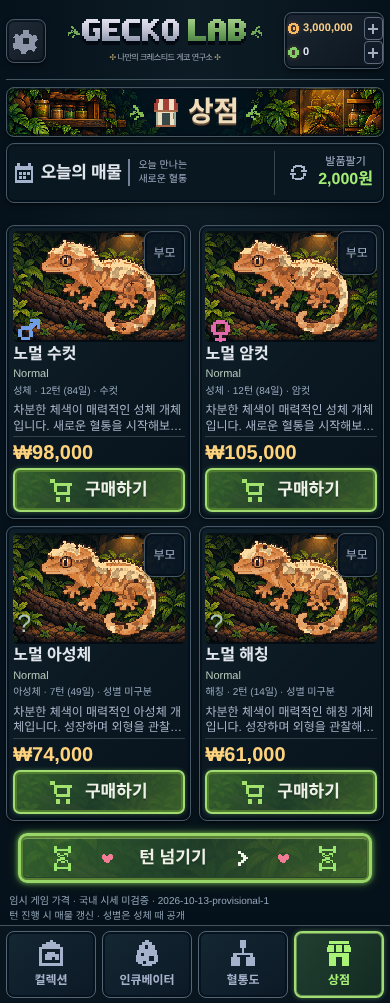
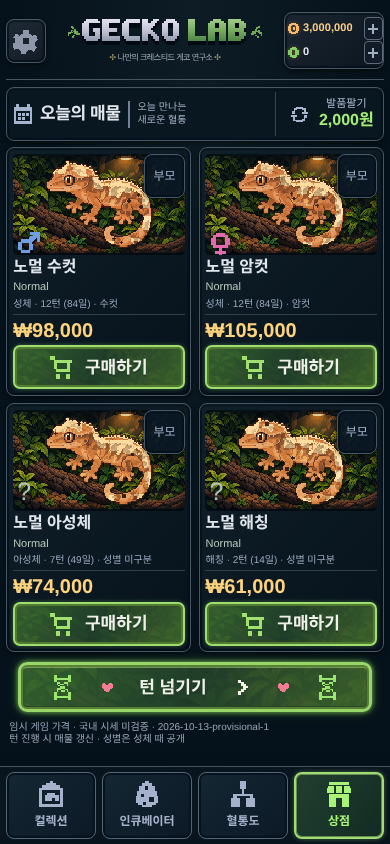
fix: fit shop offers and end-turn controls in mobile viewport

diff --git a/src/app/reference-shop.css b/src/app/reference-shop.css
@@ -1,15 +1,15 @@
 /* Independent live UI elements follow the 864px shop reference. */
-.hc-shell.shop-shell{--shop-x:min(1px,calc(100vw / 864));--home-x:var(--shop-x);--home-y:var(--shop-x);--shop-safe-bottom:env(safe-area-inset-bottom,0px);max-width:864px;min-height:100svh;padding:max(12px,env(safe-area-inset-top)) max(calc(14 * var(--shop-x)),env(safe-area-inset-right)) calc(140 * var(--shop-x) + var(--shop-safe-bottom)) max(calc(14 * var(--shop-x)),env(safe-area-inset-left));background:radial-gradient(ellipse at 50% 0,#1c313955,transparent 65%),#06121b;color:#e1e6ec}
+.hc-shell.shop-shell{--shop-x:min(1px,calc(100vw / 864));--home-x:var(--shop-x);--home-y:var(--shop-x);--shop-safe-top:env(safe-area-inset-top,0px);--shop-safe-bottom:env(safe-area-inset-bottom,0px);max-width:864px;min-height:100svh;padding:max(12px,var(--shop-safe-top)) max(calc(14 * var(--shop-x)),env(safe-area-inset-right)) calc(140 * var(--shop-x) + var(--shop-safe-bottom)) max(calc(14 * var(--shop-x)),env(safe-area-inset-left));background:radial-gradient(ellipse at 50% 0,#1c313955,transparent 65%),#06121b;color:#e1e6ec}
 .shop-shell .shop-metal,.shop-shell .home-frame{border:1px solid #465765;border-radius:8px;background-color:#091721;box-shadow:inset 0 0 0 2px #030d17b0,inset 0 1px #b0c3d52b,0 2px 4px #0008}
 .shop-shell .home-header{grid-template-columns:calc(82 * var(--shop-x)) minmax(0,1fr) 26%;gap:calc(19 * var(--shop-x));min-height:calc(128 * var(--shop-x));margin:0 0 7px;padding:0 0 10px;border-bottom:1px solid #455762}
 .shop-shell .home-settings{width:100%;height:calc(83 * var(--shop-x));min-height:44px;margin:0}.shop-shell .home-settings svg{width:calc(49 * var(--shop-x));height:calc(49 * var(--shop-x));min-width:26px;min-height:26px}
 .shop-shell .home-brand img{width:calc(367 * var(--shop-x));max-width:calc(100% - 27px)}.shop-shell .home-brand>div{gap:2px}.shop-shell .home-brand svg{width:calc(27 * var(--shop-x));min-width:11px}.shop-shell .home-brand small{margin-top:7px;font-size:clamp(8px,calc(18 * var(--shop-x)),18px);font-weight:500}
 .shop-shell .home-resources{padding:calc(8 * var(--shop-x))}.shop-shell .home-resources>div{grid-template-columns:calc(28 * var(--shop-x)) minmax(0,1fr) calc(34 * var(--shop-x));min-height:24px;height:calc(47 * var(--shop-x))}.shop-shell .home-resources>div>svg{width:calc(25 * var(--shop-x));height:calc(25 * var(--shop-x))}.shop-shell .home-resources b{font-size:clamp(11px,calc(24 * var(--shop-x)),24px)}.shop-shell .home-resources button{width:calc(34 * var(--shop-x));height:calc(37 * var(--shop-x));min-width:19px;min-height:23px}
-.shop-reference{display:flex;flex-direction:column;gap:calc(13 * var(--shop-x))}.shop-banner{display:flex;align-items:center;justify-content:center;gap:calc(15 * var(--shop-x));height:calc(111 * var(--shop-x));min-height:49px;background:linear-gradient(90deg,#07121a10,#06121a70,#07121a10),url('/ui/shop-banner.png') center / cover;image-rendering:pixelated;overflow:hidden}.shop-shell .shop-banner h1{font-size:clamp(28px,calc(61 * var(--shop-x)),61px);font-weight:900;color:#efddbb;text-shadow:0 2px #654d35,2px 3px #09121a;line-height:1}.shop-banner svg{width:calc(63 * var(--shop-x));height:calc(68 * var(--shop-x));min-width:30px}.shop-banner svg:first-child,.shop-banner svg:last-child{width:calc(32 * var(--shop-x));color:#83b953;min-width:15px}.shop-banner svg:last-child{transform:scaleX(-1)}
-.shop-today{display:flex;align-items:center;padding:calc(15 * var(--shop-x));min-height:calc(94 * var(--shop-x));gap:calc(20 * var(--shop-x))}.shop-today>div{display:flex;align-items:center;gap:calc(15 * var(--shop-x));flex-shrink:0}.shop-today>div>svg{color:#a6b3cf;width:calc(44 * var(--shop-x));height:calc(44 * var(--shop-x));min-width:20px}.shop-shell .shop-today h2{font-size:clamp(17px,calc(36 * var(--shop-x)),36px);margin:0;font-weight:800;letter-spacing:-.4px;white-space:nowrap}.shop-today>p{color:#9faac0;margin:0;border-left:2px solid #748199;padding-left:calc(24 * var(--shop-x));font-size:clamp(10px,calc(21 * var(--shop-x)),21px);line-height:1.35;flex:1}.shop-shell .shop-refresh{display:flex;align-items:center;gap:calc(18 * var(--shop-x));justify-content:center;margin-left:auto;padding:0 3px 0 calc(24 * var(--shop-x));border:0;border-left:1px solid #374550;color:#aab4cd;background:transparent;min-height:44px;flex-shrink:0}.shop-refresh svg{width:calc(38 * var(--shop-x));height:calc(38 * var(--shop-x));min-width:23px}.shop-refresh span{display:flex;flex-direction:column;font-size:clamp(11px,calc(23 * var(--shop-x)),23px);line-height:1.3}.shop-refresh strong{color:#a3ed75;font-size:clamp(16px,calc(31 * var(--shop-x)),31px)}.shop-funds{font-size:12px;color:#f5cb88;margin:0 4px}
-.shop-shell .shop-offer-grid{display:grid;grid-template-columns:repeat(2,minmax(0,1fr));gap:calc(16 * var(--shop-x))}.shop-offer{display:flex;flex-direction:column;padding:calc(13 * var(--shop-x));min-width:0;gap:0;background:linear-gradient(135deg,#10212be0,#07121b)}.shop-offer-art{position:relative;width:100%;aspect-ratio:365 / 203;overflow:hidden;border-radius:5px;background:linear-gradient(#05150a20,#00110910),url('/ui/home-terrarium.png') center 64% / cover;image-rendering:pixelated}.shop-offer-art canvas{display:block;position:absolute;width:auto!important;height:116%!important;max-width:none;left:50%;top:50%;transform:translate(-50%,-50%);image-rendering:pixelated;filter:drop-shadow(1px 3px 1px #050d0bab)}.shop-shell .shop-parents{position:absolute;right:0;top:0;background:#0a1725eb;padding:2px 8px;min-height:44px;font-size:clamp(12px,calc(24 * var(--shop-x)),24px);color:#a6b4cc;z-index:1}.shop-parents::after{content:'';position:absolute;inset:0 -2px -8px}.shop-sex{position:absolute;bottom:0;left:4px;color:#adc4b8;font-size:25px}.shop-sex svg{width:calc(42 * var(--shop-x));height:calc(42 * var(--shop-x));min-width:23px;min-height:23px}.shop-sex.female{color:#e269ac}.shop-sex.male{color:#6f9ee6}.shop-sold{position:absolute;inset:0;display:grid;place-items:center;color:#a6ee7c;background:#05141385;font-size:18px;font-weight:700}
-.shop-shell .shop-offer h3{margin:calc(6 * var(--shop-x)) 0 0;font-size:clamp(16px,calc(31 * var(--shop-x)),31px);line-height:1.3;font-weight:750;overflow:hidden;white-space:nowrap;text-overflow:ellipsis}.shop-morph{font-size:clamp(11px,calc(21 * var(--shop-x)),21px);color:#b6c9ba;line-height:1.3;margin:2px 0 0;overflow:hidden;white-space:nowrap;text-overflow:ellipsis}.shop-age{font-size:clamp(10px,calc(18 * var(--shop-x)),18px);color:#97a8bc;margin:3px 0;line-height:1.3}.shop-description{display:-webkit-box;-webkit-line-clamp:2;-webkit-box-orient:vertical;overflow:hidden;margin:calc(5 * var(--shop-x)) 0;font-size:clamp(12px,calc(22 * var(--shop-x)),22px);line-height:1.3;color:#a8b3c7;min-height:2.6em}.shop-price{display:block;color:#ffd37c;font-size:clamp(20px,calc(36 * var(--shop-x)),36px);font-weight:750;padding-top:4px;margin-top:auto;border-top:1px solid #31414c;line-height:1.2;padding-bottom:calc(6 * var(--shop-x));white-space:nowrap}
-.shop-shell .shop-buy,.shop-shell .shop-turn-cta{display:flex;align-items:center;justify-content:center;gap:calc(24 * var(--shop-x));border:2px solid #a1dc71;border-radius:7px;background:linear-gradient(120deg,#376a30de,#203f2bea,#416a2edc),url('/ui/home-terrarium.png') center / cover;box-shadow:inset 0 0 0 2px #517c30,inset 0 2px #ccffae60,0 0 4px #a3ef7555;color:#eff1e8;min-height:44px;padding:6px;font-weight:750;font-size:clamp(17px,calc(31 * var(--shop-x)),31px);text-shadow:0 2px #1e3a24}.shop-buy svg{color:#a2e16d;width:calc(41 * var(--shop-x));height:calc(41 * var(--shop-x));min-width:24px;min-height:24px}.shop-unavailable{font-size:10px;margin-top:3px;color:#d2aa83}.shop-shell .shop-buy:disabled{opacity:.6}.shop-cta-wrap{display:flex;justify-content:center;padding:6px 0}.shop-shell .shop-turn-cta{border:3px solid #98d669;border-radius:9px;box-shadow:inset 0 0 0 2px #597f33,inset 0 3px #c5f59570,inset 0 -3px #26452b,0 0 4px 1px #a6f56b78,0 0 12px #6ec94055;width:94%;justify-content:space-evenly;gap:3px;min-height:50px}.shop-turn-cta svg{width:25px;height:30px;color:#9ae66e}.shop-turn-cta svg:nth-child(2),.shop-turn-cta svg:nth-child(5){width:12px;height:12px;color:#f17c93}.shop-turn-cta svg:nth-child(4){width:18px;height:22px;color:#f3f3e9}.shop-market-note{margin:0 3px 15px;color:#93a5b7;font-size:10px;line-height:1.5}
+.shop-reference{display:flex;flex-direction:column;gap:6px}
+.shop-today{display:flex;align-items:center;padding:calc(15 * var(--shop-x));min-height:calc(94 * var(--shop-x));gap:calc(20 * var(--shop-x))}.shop-today>div{display:flex;align-items:center;gap:calc(15 * var(--shop-x));flex-shrink:0}.shop-today>div>svg{color:#a6b3cf;width:calc(44 * var(--shop-x));height:calc(44 * var(--shop-x));min-width:20px}.shop-shell .shop-today h2{font-size:clamp(17px,calc(36 * var(--shop-x)),36px);margin:0;font-weight:800;letter-spacing:-.4px;white-space:nowrap}.shop-today>p{color:#9faac0;margin:0;border-left:2px solid #748199;padding-left:calc(24 * var(--shop-x));font-size:clamp(10px,calc(21 * var(--shop-x)),21px);line-height:1.35;flex:1}.shop-shell .shop-refresh{display:flex;align-items:center;gap:calc(18 * var(--shop-x));justify-content:center;margin-left:auto;padding:0 3px 0 calc(24 * var(--shop-x));border:0;border-left:1px solid #374550;color:#aab4cd;background:transparent;min-height:44px;flex-shrink:0}.shop-refresh svg{width:calc(38 * var(--shop-x));height:calc(38 * var(--shop-x));min-width:23px}.shop-refresh span{display:flex;flex-direction:column;font-size:clamp(11px,calc(23 * var(--shop-x)),23px);line-height:1.3}.shop-refresh strong{color:#a3ed75;font-size:clamp(16px,calc(31 * var(--shop-x)),31px)}
+.shop-shell .shop-offer-grid{margin-top:0;display:grid;grid-template-columns:repeat(2,minmax(0,1fr));gap:calc(16 * var(--shop-x))}.shop-offer{display:flex;flex-direction:column;padding:calc(13 * var(--shop-x));min-width:0;gap:0;background:linear-gradient(135deg,#10212be0,#07121b)}.shop-offer-art{position:relative;width:100%;aspect-ratio:365 / 203;overflow:hidden;border-radius:5px;background:linear-gradient(#05150a20,#00110910),url('/ui/home-terrarium.png') center 64% / cover;image-rendering:pixelated}.shop-offer-art canvas{display:block;position:absolute;width:auto!important;height:116%!important;max-width:none;left:50%;top:50%;transform:translate(-50%,-50%);image-rendering:pixelated;filter:drop-shadow(1px 3px 1px #050d0bab)}.shop-shell .shop-parents{position:absolute;right:0;top:0;background:#0a1725eb;padding:2px 8px;min-height:44px;font-size:clamp(12px,calc(24 * var(--shop-x)),24px);color:#a6b4cc;z-index:1}.shop-parents::after{content:'';position:absolute;inset:0 -2px -8px}.shop-sex{position:absolute;bottom:0;left:4px;color:#adc4b8;font-size:25px}.shop-sex svg{width:calc(42 * var(--shop-x));height:calc(42 * var(--shop-x));min-width:23px;min-height:23px}.shop-sex.female{color:#e269ac}.shop-sex.male{color:#6f9ee6}.shop-sold{position:absolute;inset:0;display:grid;place-items:center;color:#a6ee7c;background:#05141385;font-size:18px;font-weight:700}
+.shop-shell .shop-offer h3{margin:calc(6 * var(--shop-x)) 0 0;font-size:clamp(16px,calc(31 * var(--shop-x)),31px);line-height:1.3;font-weight:750;overflow:hidden;white-space:nowrap;text-overflow:ellipsis}.shop-morph{font-size:clamp(11px,calc(21 * var(--shop-x)),21px);color:#b6c9ba;line-height:1.3;margin:2px 0 0;overflow:hidden;white-space:nowrap;text-overflow:ellipsis}.shop-age{font-size:clamp(10px,calc(18 * var(--shop-x)),18px);color:#97a8bc;margin:3px 0;line-height:1.3}.shop-price{display:block;color:#ffd37c;font-size:clamp(20px,calc(36 * var(--shop-x)),36px);font-weight:750;padding-top:4px;margin-top:auto;border-top:1px solid #31414c;line-height:1.2;padding-bottom:calc(6 * var(--shop-x));white-space:nowrap}
+.shop-shell .shop-buy,.shop-shell .shop-turn-cta{display:flex;align-items:center;justify-content:center;gap:calc(24 * var(--shop-x));border:2px solid #a1dc71;border-radius:7px;background:linear-gradient(120deg,#376a30de,#203f2bea,#416a2edc),url('/ui/home-terrarium.png') center / cover;box-shadow:inset 0 0 0 2px #517c30,inset 0 2px #ccffae60,0 0 4px #a3ef7555;color:#eff1e8;min-height:44px;padding:6px;font-weight:750;font-size:clamp(17px,calc(31 * var(--shop-x)),31px);text-shadow:0 2px #1e3a24}.shop-buy svg{color:#a2e16d;width:calc(41 * var(--shop-x));height:calc(41 * var(--shop-x));min-width:24px;min-height:24px}.shop-shell .shop-buy:disabled{opacity:.6}.shop-cta-wrap{display:flex;justify-content:center;padding:4px 0}.shop-shell .shop-turn-cta{border:3px solid #98d669;border-radius:9px;box-shadow:inset 0 0 0 2px #597f33,inset 0 3px #c5f59570,inset 0 -3px #26452b,0 0 4px 1px #a6f56b78,0 0 12px #6ec94055;width:94%;justify-content:space-evenly;gap:3px;min-height:50px}.shop-turn-cta svg{width:25px;height:30px;color:#9ae66e}.shop-turn-cta svg:nth-child(2),.shop-turn-cta svg:nth-child(5){width:12px;height:12px;color:#f17c93}.shop-turn-cta svg:nth-child(4){width:18px;height:22px;color:#f3f3e9}.shop-market-note{margin:0 3px;color:#93a5b7;font-size:10px;line-height:1.2}
 .shop-shell .home-nav{grid-template-columns:repeat(4,minmax(0,1fr));max-width:864px;width:100%;bottom:0;left:50%;transform:translateX(-50%);gap:calc(15 * var(--shop-x));border:0;border-top:1px solid #46535e;border-radius:0;padding:calc(10 * var(--shop-x)) calc(14 * var(--shop-x)) max(calc(12 * var(--shop-x)),var(--shop-safe-bottom));background:#08151ff7;box-shadow:0 -3px 8px #03101970}.shop-shell .home-nav button{display:flex;flex-direction:column;align-items:center;justify-content:center;gap:5px;min-width:0;min-height:calc(109 * var(--shop-x));padding:7px 1px;border:1px solid #536574;border-radius:8px;color:#a6b1cb;background:linear-gradient(140deg,#142733,#0b1925);box-shadow:inset 0 0 0 2px #06131f;font-size:clamp(12px,calc(21 * var(--shop-x)),21px);font-weight:650}.shop-shell .home-nav button svg{width:calc(47 * var(--shop-x));height:calc(47 * var(--shop-x));min-width:26px;min-height:26px}.shop-shell .home-nav button[aria-pressed='true']{color:#a8f376;border:2px solid #a1db74;background:linear-gradient(125deg,#213f30,#132b23);box-shadow:inset 0 0 0 1px #668c51,0 0 5px #9cf17560}
 .shop-family-child{display:flex;align-items:center;gap:12px;padding:8px 0}.shop-family-child canvas{width:100px!important;height:100px!important;flex-shrink:0}.shop-family-child p{font-size:12px;margin:5px 0}.shop-family-child small{display:block;font-size:10px;overflow-wrap:anywhere;color:#95a8b3}.shop-family-grid{display:grid;grid-template-columns:repeat(2,minmax(0,1fr));gap:8px}.shop-family-grid article{min-width:0;padding:8px;border:1px solid #3e5966;border-radius:7px;background:#101e28}.shop-family-grid h3{margin:0 0 6px;font-size:16px;color:#ecd7a7}.shop-family-art{aspect-ratio:1;background:url('/ui/home-terrarium.png') center / cover;border-radius:5px}.shop-family-art canvas{width:100%!important;height:auto!important;image-rendering:pixelated}.shop-family-grid strong{font-size:13px;overflow-wrap:anywhere}.shop-family-grid p{font-size:11px;margin:5px 0;color:#afbdcc}
-@media(max-width:430px){.shop-today{gap:7px}.shop-today>p{font-size:10px;padding-left:8px}.shop-shell .shop-refresh{padding-left:12px}.shop-offer-art{aspect-ratio:1.55}.shop-shell .home-header{grid-template-columns:40px minmax(0,1fr) 100px;gap:5px;min-height:63px}.shop-shell .home-brand small{letter-spacing:-.55px}.shop-shell .home-nav button{min-height:57px}.shop-family-child{align-items:flex-start}}
+@media(max-width:430px){.shop-today{gap:7px;padding:4px 6px}.shop-today>p{font-size:10px;padding-left:8px}.shop-shell .shop-refresh{padding-left:12px}.shop-offer-art{aspect-ratio:1.7;max-height:clamp(72px,calc((100svh - 578px - max(12px,var(--shop-safe-top)) - max(16px,var(--shop-safe-bottom))) / 2),132px)}.shop-shell .home-header{grid-template-columns:40px minmax(0,1fr) 100px;gap:5px;min-height:63px}.shop-shell .home-brand small{letter-spacing:-.55px}.shop-shell .home-nav button{min-height:57px}.shop-family-child{align-items:flex-start}}

diff --git a/e2e/shop-reference.spec.ts b/e2e/shop-reference.spec.ts
@@ -22,8 +22,12 @@ test.afterEach(async({page})=>expect(errors.get(page)).toEqual([]));
 test('four actual family offers, private parent popup, confirmed paid reroll, purchase receipt and stable reload at 360/390/430px',async({page},info)=>{
  const mobile=info.project.name.startsWith('mobile');const fixture=winning();await restore(page,fixture.original,mobile);await shop(page,mobile);
  const initial=await saved(page);
- for(const width of [360,390,430]){await page.setViewportSize({width,height:844});await page.evaluate(()=>window.scrollTo(0,0));expect(await page.evaluate(()=>document.documentElement.scrollWidth<=innerWidth)).toBe(true);expect(await page.locator('.shop-offer-grid').evaluate(el=>getComputedStyle(el).gridTemplateColumns.split(' ').length)).toBe(2);for(const c of await page.locator('.shop-offer-art canvas').all())expect(await c.evaluate(el=>{const c=el as HTMLCanvasElement;return !c.getContext('2d')!.imageSmoothingEnabled&&c.getContext('2d')!.getImageData(0,0,c.width,c.height).data.some((v,i)=>i%4===3&&v>0);})).toBe(true);
-  await page.screenshot({path:info.outputPath('shop-'+width+'.png'),scale:'css',fullPage:true});
+ for(const [width,height] of [[360,800],[390,844],[430,844],[360,740]]){await page.setViewportSize({width,height});await page.evaluate(()=>window.scrollTo(0,0));expect(await page.evaluate(()=>document.documentElement.scrollWidth<=innerWidth)).toBe(true);expect(await page.locator('.shop-offer-grid').evaluate(el=>getComputedStyle(el).gridTemplateColumns.split(' ').length)).toBe(2);
+  const cta=await page.locator('.shop-turn-cta').boundingBox(),nav=await page.getByRole('navigation',{name:'게임 탭'}).boundingBox();
+  expect(await page.evaluate(()=>scrollY)).toBe(0);expect(cta!.y+cta!.height).toBeLessThanOrEqual(nav!.y);
+  for(const b of await page.locator('.shop-buy,.shop-parents').all()){const r=await b.boundingBox();expect(r!.height).toBeGreaterThanOrEqual(44);expect(r!.y+r!.height).toBeLessThan(cta!.y);}
+  await expect(page.locator('.shop-banner,.shop-description')).toHaveCount(0);for(const c of await page.locator('.shop-offer-art canvas').all())expect(await c.evaluate(el=>{const c=el as HTMLCanvasElement;return !c.getContext('2d')!.imageSmoothingEnabled&&c.getContext('2d')!.getImageData(0,0,c.width,c.height).data.some((v,i)=>i%4===3&&v>0);})).toBe(true);
+  await page.screenshot({path:info.outputPath('shop-'+width+'x'+height+'.png'),scale:'css'});
  }
  await page.setViewportSize({width:390,height:844});const first=Object.values(initial.shop.offers)[0],card=page.getByTestId('shop-offer-'+first.id);
  await expect(card).toContainText(first.individual.name);await expect(card).toContainText('₩'+first.askPrice.toLocaleString('ko-KR'));expect(first.askPrice).toBe(valueGecko(first.individual).ask);
@@ -35,7 +39,10 @@ test('four actual family offers, private parent popup, confirmed paid reroll, pu
  await touch(page.getByRole('button',{name:'발품팔기 2,000원',exact:true}),mobile);await touch(page.getByRole('button',{name:'취소',exact:true}),mobile);expect(await saved(page)).toEqual(purchased);
  await touch(page.getByRole('button',{name:'발품팔기 2,000원',exact:true}),mobile);await page.getByRole('button',{name:'2,000원 사용하고 매물 갱신',exact:true}).evaluate(el=>{(el as HTMLButtonElement).click();(el as HTMLButtonElement).click();});await expect(page.getByRole('dialog')).toHaveCount(0);const refreshed=await saved(page);expect(refreshed.money).toBe(purchased.money-2000);expect(refreshed.turn).toBe(0);expect(refreshed.shop.batch).toBe(purchased.shop.batch!+1);expect(refreshed.revision).toBe(purchased.revision+1);expect(Object.keys(refreshed.shop.offers).some(id=>id in purchased.shop.offers)).toBe(false);
  await page.reload();await expect(page.getByTestId('game-day')).toHaveText('0');await shop(page,mobile);expect(await saved(page)).toEqual(refreshed);
- if(mobile){await mkdir('docs/shop-reference',{recursive:true});await restore(page,initial,mobile);await shop(page,mobile);await page.evaluate(()=>window.scrollTo(0,document.documentElement.scrollHeight));const cta=await page.locator('.shop-turn-cta').boundingBox(),nav=await page.getByRole('navigation',{name:'게임 탭'}).boundingBox();expect(cta!.y+cta!.height).toBeLessThanOrEqual(nav!.y);await page.screenshot({path:'docs/shop-reference/after-390.png',scale:'css',fullPage:true});await page.screenshot({path:'docs/shop-reference/lower-390.png',scale:'css'});await touch(page.locator('.shop-parents').first(),mobile);await page.getByRole('dialog').screenshot({path:'docs/shop-reference/parents-390.png',scale:'css'});await writeFile('docs/shop-reference/state.json',JSON.stringify(makeSave(initial),null,2));}
+ if(mobile){await mkdir('docs/shop-reference',{recursive:true});
+  await page.setViewportSize({width:360,height:800});await page.locator('.shop-shell').evaluate(el=>{(el as HTMLElement).style.setProperty('--shop-safe-top','20px');(el as HTMLElement).style.setProperty('--shop-safe-bottom','34px');});await page.evaluate(()=>window.scrollTo(0,0));
+  const safeCta=await page.locator('.shop-turn-cta').boundingBox(),safeNav=await page.getByRole('navigation',{name:'게임 탭'}).boundingBox();expect(safeCta!.y+safeCta!.height).toBeLessThanOrEqual(safeNav!.y);
+  await page.locator('.shop-shell').evaluate(el=>{(el as HTMLElement).style.removeProperty('--shop-safe-top');(el as HTMLElement).style.removeProperty('--shop-safe-bottom');});await page.setViewportSize({width:390,height:844});await restore(page,initial,mobile);await shop(page,mobile);await page.evaluate(()=>window.scrollTo(0,0));const cta=await page.locator('.shop-turn-cta').boundingBox(),nav=await page.getByRole('navigation',{name:'게임 탭'}).boundingBox();expect(cta!.y+cta!.height).toBeLessThanOrEqual(nav!.y);await page.screenshot({path:'docs/shop-reference/after-390.png',scale:'css'});await page.screenshot({path:'docs/shop-reference/lower-390.png',scale:'css'});await touch(page.locator('.shop-parents').first(),mobile);await page.getByRole('dialog').screenshot({path:'docs/shop-reference/parents-390.png',scale:'css'});await writeFile('docs/shop-reference/state.json',JSON.stringify(makeSave(initial),null,2));}
 });
 
 test('shop end-turn follows real breeding, incubation, growth, second generation and persistence without double turns or reroll charges',async({page},info)=>{
@@ -44,7 +51,7 @@ test('shop end-turn follows real breeding, incubation, growth, second generation
  await navigateGame(page,'교배',mobile);await page.getByRole('combobox',{name:'수컷 부모',exact:true}).selectOption(fixture.f);await page.getByRole('combobox',{name:'암컷 부모',exact:true}).selectOption(fixture.m);await touch(page.getByRole('button',{name:'교배 일정 시작 · 공간 2칸 예약',exact:true}),mobile);
  const breeding=await saved(page),fixed=Object.values(breeding.matings)[0].lifecycle!.offspring;
  await shop(page,mobile);const money=breeding.money;
- for(let n=1;n<=18;n++){await page.getByRole('button',{name:'턴 넘기기',exact:true}).evaluate(el=>{(el as HTMLButtonElement).click();(el as HTMLButtonElement).click();});await expect(page.getByTestId('game-day')).toHaveText(String(n));await expect(page.locator('.game-tab-content')).toHaveAttribute('aria-busy','false');const g=await saved(page);expect(g.money).toBe(money);expect(g.shop.batch).toBe(breeding.shop.batch!+n);expect(Object.values(g.shop.offers)).toHaveLength(4);if(n===2)expect(Object.values(g.eggs)).toHaveLength(2);if(n===6)for(const o of fixed)expect(g.individuals[o.embryo.id]).toEqual(o.embryo);}
+ for(let n=1;n<=18;n++){await page.getByRole('button',{name:'턴 넘기기',exact:true}).evaluate(el=>{(el as HTMLButtonElement).click();(el as HTMLButtonElement).click();});await expect(page.getByTestId('game-day')).toHaveText(String(n));await expect(page.locator('.game-tab-content')).toHaveAttribute('aria-busy','false');const g=await saved(page);const cta=await page.locator('.shop-turn-cta').boundingBox(),nav=await page.getByRole('navigation',{name:'게임 탭'}).boundingBox();expect(await page.evaluate(()=>scrollY)).toBe(0);if(mobile)expect(cta!.y+cta!.height).toBeLessThanOrEqual(nav!.y);expect(g.money).toBe(money);expect(g.shop.batch).toBe(breeding.shop.batch!+n);expect(Object.values(g.shop.offers)).toHaveLength(4);if(n===2)expect(Object.values(g.eggs)).toHaveLength(2);if(n===6)for(const o of fixed)expect(g.individuals[o.embryo.id]).toEqual(o.embryo);}
  let g=await saved(page);const child=g.individuals[fixed[0].embryo.id];expect(child.stage).toBe('adult');expect(child.generation).toBe(3);await navigateGame(page,'컬렉션',mobile);await touch(page.getByRole('button',{name:child.name+' 상세보기',exact:true}),mobile);await page.getByLabel('개체 이름',{exact:true}).fill('상점 혈통 자손');await touch(page.getByRole('button',{name:'이름 저장',exact:true}),mobile);await page.keyboard.press('Escape');await shop(page,mobile);
  const partner=Object.values(g.shop.offers).find(o=>o.individual.stage==='adult'&&o.individual.sex!==child.sex&&!advancedSafety(child,o.individual).length)!;await touch(page.getByTestId('shop-offer-'+partner.id).getByRole('button',{name:/ 구매$/}),mobile);
  await navigateGame(page,'교배',mobile);await page.getByRole('combobox',{name:'수컷 부모',exact:true}).selectOption(child.sex==='male'?child.id:partner.id);await page.getByRole('combobox',{name:'암컷 부모',exact:true}).selectOption(child.sex==='female'?child.id:partner.id);await touch(page.getByRole('button',{name:'교배 일정 시작 · 공간 2칸 예약',exact:true}),mobile);await shop(page,mobile);
@@ -53,7 +60,8 @@ test('shop end-turn follows real breeding, incubation, growth, second generation
 });
 
 test('insufficient funds disable reroll and purchases; missing legacy parent records remain honestly unknown',async({page},info)=>{
- const mobile=info.project.name.startsWith('mobile');const poor=newGame('poor-shop',DATE,{initialMoney:1999});await restore(page,poor,mobile);await shop(page,mobile);await expect(page.getByRole('button',{name:'발품팔기 2,000원',exact:true})).toBeDisabled();for(const b of await page.locator('.shop-buy').all())await expect(b).toBeDisabled();expect(await saved(page)).toEqual(poor);
+ const mobile=info.project.name.startsWith('mobile');const poor=newGame('poor-shop',DATE,{initialMoney:1999});await restore(page,poor,mobile);await shop(page,mobile);await expect(page.getByRole('button',{name:'발품팔기 2,000원',exact:true})).toBeDisabled();for(const b of await page.locator('.shop-buy').all()){await expect(b).toBeDisabled();await expect(b).toContainText('자금 부족');}expect(await saved(page)).toEqual(poor);
+ if(mobile){const cta=await page.locator('.shop-turn-cta').boundingBox(),nav=await page.getByRole('navigation',{name:'게임 탭'}).boundingBox();expect(await page.evaluate(()=>scrollY)).toBe(0);expect(cta!.y+cta!.height).toBeLessThanOrEqual(nav!.y);}
  const old=v6Game('unknown-family',DATE),record={save:makeSave(old),writeRevision:10};
  await page.evaluate(async record=>{const db=await new Promise<IDBDatabase>(resolve=>{const r=indexedDB.open('gecko-lab',1);r.onsuccess=()=>resolve(r.result);});await new Promise<void>(resolve=>{const tx=db.transaction('games','readwrite');tx.objectStore('games').put(record,'active');tx.oncomplete=()=>{db.close();resolve();};});},record);
  await page.reload();await expect(page.getByTestId('game-day')).toHaveText('0');await shop(page,mobile);const upgraded=await saved(page);expect(upgraded.saveVersion).toBe(7);

diff --git a/src/components/hardcore/shop.tsx b/src/components/hardcore/shop.tsx
@@ -1,5 +1,5 @@
 "use client";
-import {useState} from 'react';
+import {useEffect,useState} from 'react';
 import {Dialog,Sprite,won,type ViewProps} from './common';
 import {HomeIcon} from './home-icons';
 import {EndTurnButton} from './end-turn';
@@ -15,27 +15,22 @@ export function shopMorph(g:Gecko):string {
  const label={normal:'Normal',lilly:'Lilly White',axanthic:'Axanthic',dalmatian:'Dalmatian',harlequin:'Harlequin',tricolor:'Tricolor Harlequin'}[specimen(g).appearance.patternStyle];
  return morph(g).replace(/^일반형(?: · (?:반점|할리퀸|트라이컬러) 외형)?|^릴리화이트 이형접합체/,label).split(' · ').filter(s=>!s.includes('het')&&!s.includes('유전 정보')).join(' · ');
 }
-function description(g:Gecko):string {
- const t=g.potential,feature=t.spotDensity>=.5?'뚜렷한 반점':t.creamCoverage>.55?'밝은 크림 패턴':t.flankIntensity>.6?'선명한 측면 패턴':t.redIntensity>.65?'따뜻한 붉은 발색':'차분한 체색';
- return `${feature}이 매력적인 ${STAGE_LABELS[g.stage]} 개체입니다. ${g.stage==='adult'?'새로운 혈통을 시작해보세요.':'성장하며 외형을 관찰해보세요.'}`;
-}
-function Storefront(){return <svg viewBox="0 0 32 32" shapeRendering="crispEdges" aria-hidden="true"><path fill="#9cae9f" d="M5 12h22v18H5z"/><path fill="#eddec0" d="M7 12h18v18H7z"/><path fill="#364848" d="M12 17h8v13h-8z"/><path fill="#5e8264" d="M23 17h2v6h-2z"/><path fill="#a24136" d="M5 2h22v4H5zM3 6h26v8H3z"/><path fill="#f0e0c7" d="M8 2h5v4H8zM19 2h5v4h-5zM7 6h6v8H7zM19 6h6v8h-6z"/><path fill="#a96948" d="M3 14h26v2H3zM5 30h22v2H5z"/></svg>}
 export function Shop({game,busy,play,onFood}:ViewProps&{onFood:()=>void}){
  const [inspect,setInspect]=useState(''),[confirm,setConfirm]=useState(false);
+ useEffect(()=>{window.scrollTo({top:0,behavior:'instant'});},[]);
  const offers=Object.values(game.shop.offers),selected=game.shop.offers[inspect];
  const reroll=async()=>{if(await play({type:'refreshShop'})){setConfirm(false);setInspect('');}};
  return <section className="shop-reference" aria-label="상점 화면">
-  <div className="shop-banner shop-metal"><HomeIcon name="leaf"/><Storefront/><h1>상점</h1><HomeIcon name="leaf"/></div>
-  <div className="shop-today shop-metal"><div><HomeIcon name="calendar"/><h2>오늘의 매물</h2></div><p>오늘 만나는<br/>새로운 혈통</p><button className="shop-refresh" aria-label="발품팔기 2,000원" disabled={busy||game.money<SHOP_REFRESH_PRICE} onClick={()=>setConfirm(true)}><HomeIcon name="refresh"/><span>발품팔기<strong>{SHOP_REFRESH_PRICE.toLocaleString('ko-KR')}원</strong></span></button></div>
-  {game.money<SHOP_REFRESH_PRICE&&<p className="shop-funds" role="status">발품팔기에 {won(SHOP_REFRESH_PRICE-game.money)}이 더 필요합니다.</p>}
+  <h1 className="sr-only">상점</h1>
+  <div className="shop-today shop-metal"><div><HomeIcon name="calendar"/><h2>오늘의 매물</h2></div><p role={game.money<SHOP_REFRESH_PRICE?"status":undefined}>{game.money<SHOP_REFRESH_PRICE?<>자금 부족<br/>{won(SHOP_REFRESH_PRICE-game.money)} 더 필요</>:<>오늘 만나는<br/>새로운 혈통</>}</p><button className="shop-refresh" aria-label="발품팔기 2,000원" disabled={busy||game.money<SHOP_REFRESH_PRICE} onClick={()=>setConfirm(true)}><HomeIcon name="refresh"/><span>발품팔기<strong>{SHOP_REFRESH_PRICE.toLocaleString('ko-KR')}원</strong></span></button></div>
   <div className="shop-offer-grid hc-grid">{offers.map(o=>{
-   const g=o.individual,sex=g.stage==='adult'?g.sex:'unknown',unavailable=busy||!!o.purchased||game.money<o.askPrice||freeSlots(game)<1;
+   const g=o.individual,sex=g.stage==='adult'?g.sex:'unknown',noMoney=game.money<o.askPrice,noSpace=freeSlots(game)<1,unavailable=busy||!!o.purchased||noMoney||noSpace;
+   const buyLabel=o.purchased?'구매 완료':noMoney?'자금 부족':noSpace?'공간 부족':'구매하기';
    return <article className={'shop-offer shop-metal'+(o.purchased?' purchased':'')} key={o.id} data-testid={'shop-offer-'+o.id}>
     <div className="shop-offer-art"><Sprite gecko={g} large/><button className="shop-parents shop-metal" aria-label={g.name+' 부모'} disabled={busy} onClick={()=>setInspect(o.id)}>부모</button><span className={'shop-sex '+sex} aria-label={disclosedSex(g)}>{sex==='unknown'?'?':<HomeIcon name={sex}/>}</span>{o.purchased&&<span className="shop-sold">구매 완료</span>}</div>
     <h3 title={g.name}>{g.name}</h3><p className="shop-morph" title={shopMorph(g)}>{shopMorph(g)}</p><p className="shop-age">{STAGE_LABELS[g.stage]} · {ageTurns(game,g)}턴 ({ageTurns(game,g)*V12.daysPerTurn}일) · {sex==='unknown'?'성별 미구분':sex==='male'?'수컷':'암컷'}</p>
-    <p className="shop-description">{description(g)}</p><strong className="shop-price">{won(o.askPrice)}</strong>
-    <button className="shop-buy" aria-label={g.name+' 구매'} disabled={unavailable} onClick={()=>void play({type:'buyGecko',offerId:o.id})}><HomeIcon name="cart"/><span>{o.purchased?'구매 완료':'구매하기'}</span></button>
-    {!o.purchased&&(game.money<o.askPrice||freeSlots(game)<1)&&<small className="shop-unavailable">{game.money<o.askPrice?'자금 부족':'사육장 공간 부족'}</small>}
+    <strong className="shop-price">{won(o.askPrice)}</strong>
+    <button className="shop-buy" aria-label={g.name+' 구매'} aria-description={buyLabel} disabled={unavailable} onClick={()=>void play({type:'buyGecko',offerId:o.id})}><HomeIcon name="cart"/><span>{buyLabel}</span></button>
    </article>;
   })}</div>
   <div className="shop-cta-wrap"><EndTurnButton game={game} busy={busy} play={play} onShop={onFood} className="shop-turn-cta"><HomeIcon name="dna"/><HomeIcon name="heart"/><span>턴 넘기기</span><HomeIcon name="chevron"/><HomeIcon name="heart"/><HomeIcon name="dna"/></EndTurnButton></div>

diff --git a/public/sw.js b/public/sw.js
@@ -1,6 +1,6 @@
 /* Same-origin offline shell only. No automatic care or protection. */
-const CACHE = "gecko-lab-phase3-shell-9";
-const STATIC_ASSETS = ["/manifest.webmanifest", "/icon.svg", "/ui/gecko-lab-mark.svg", "/ui/terrarium.svg", "/ui/home-terrarium.png", "/ui/home-wordmark.svg", "/ui/incubator/scene.png", "/ui/shop-banner.png"];
+const CACHE = "gecko-lab-phase3-shell-10";
+const STATIC_ASSETS = ["/manifest.webmanifest", "/icon.svg", "/ui/gecko-lab-mark.svg", "/ui/terrarium.svg", "/ui/home-terrarium.png", "/ui/home-wordmark.svg", "/ui/incubator/scene.png"];
 self.addEventListener("install", event => {
   event.waitUntil((async () => {
     const cache = await caches.open(CACHE), response = await fetch("/", { cache: "reload" });

diff --git a/README.md b/README.md
@@ -106,8 +106,10 @@ PLAYWRIGHT_CHROMIUM_EXECUTABLE_PATH=/usr/bin/chromium npm run test:e2e
 
 ## 상점 화면
 
-[실제 가족 매물 상점](docs/shop-reference.md)은 레퍼런스의 2×2 카드·정글 배너·부모 팝업·녹색 구매/턴 버튼을 실제 데이터에 연결합니다. 고정 시드로 기존 유전 엔진에서 부모→자손을 생성하고 기존 가격표로 평가합니다. 확인 후 ₩2,000 발품팔기, 구매 금액 차감·컬렉션 등록·구매 완료 표시, 기존 턴 기반 재고 갱신과 저장 복원을 지원합니다. 외부 부모는 혈통 기록으로 보존하지만 급여·사육 공간을 소비하지 않습니다.
+[실제 가족 매물 상점](docs/shop-reference.md)은 레퍼런스의 2×2 카드·부모 팝업·녹색 구매/턴 버튼을 실제 데이터에 연결합니다. 고정 시드로 기존 유전 엔진에서 부모→자손을 생성하고 기존 가격표로 평가합니다. 확인 후 ₩2,000 발품팔기, 구매 금액 차감·컬렉션 등록·구매 완료 표시, 기존 턴 기반 재고 갱신과 저장 복원을 지원합니다. 외부 부모는 혈통 기록으로 보존하지만 급여·사육 공간을 소비하지 않습니다.
 
 저장 v7은 부모 원본·매물 배치 번호·구매 상태를 추가합니다. 기존 보유 개체·유전·알·산란·거래 기록은 유지하며 이전 원본은 아카이브에 보존합니다. 부모 기록이 없는 기존 매물은 기록 없음으로 표시하고, 이전 미구매 재고는 최대 4개 유지 후 부족분을 생성합니다. 과거 v5/v6 회귀 테스트는 명시적인 해당 버전 fixture를 유지하고, 현재 상점/저장/다세대 동작은 v7 단위 및 실제 브라우저 테스트로 검증합니다.
 
 최신 전체 검증: 타입 검사·빌드·아트 해시 통과, 단위 **175개**, 모바일/데스크톱 E2E **104개** 통과. 360·390·430px 실제 Chromium 터치 화면, 구매/발품팔기/부모/턴/재저장과 5세대 추가 교배를 확인했습니다. [스크린샷·검증·제약·주요 파일](docs/shop-reference.md)을 함께 기록합니다.
+
+상점은 배너·매물 설명을 제거한 간결한 화면으로 표시합니다. 360×800·390×844·430×844에서는 상점 탭을 누르면 매물 4개와 턴 넘기기 버튼을 스크롤 없이 함께 볼 수 있습니다. 부모/구매 버튼의 44px 터치 영역과 실제 데이터·기능은 유지합니다.
